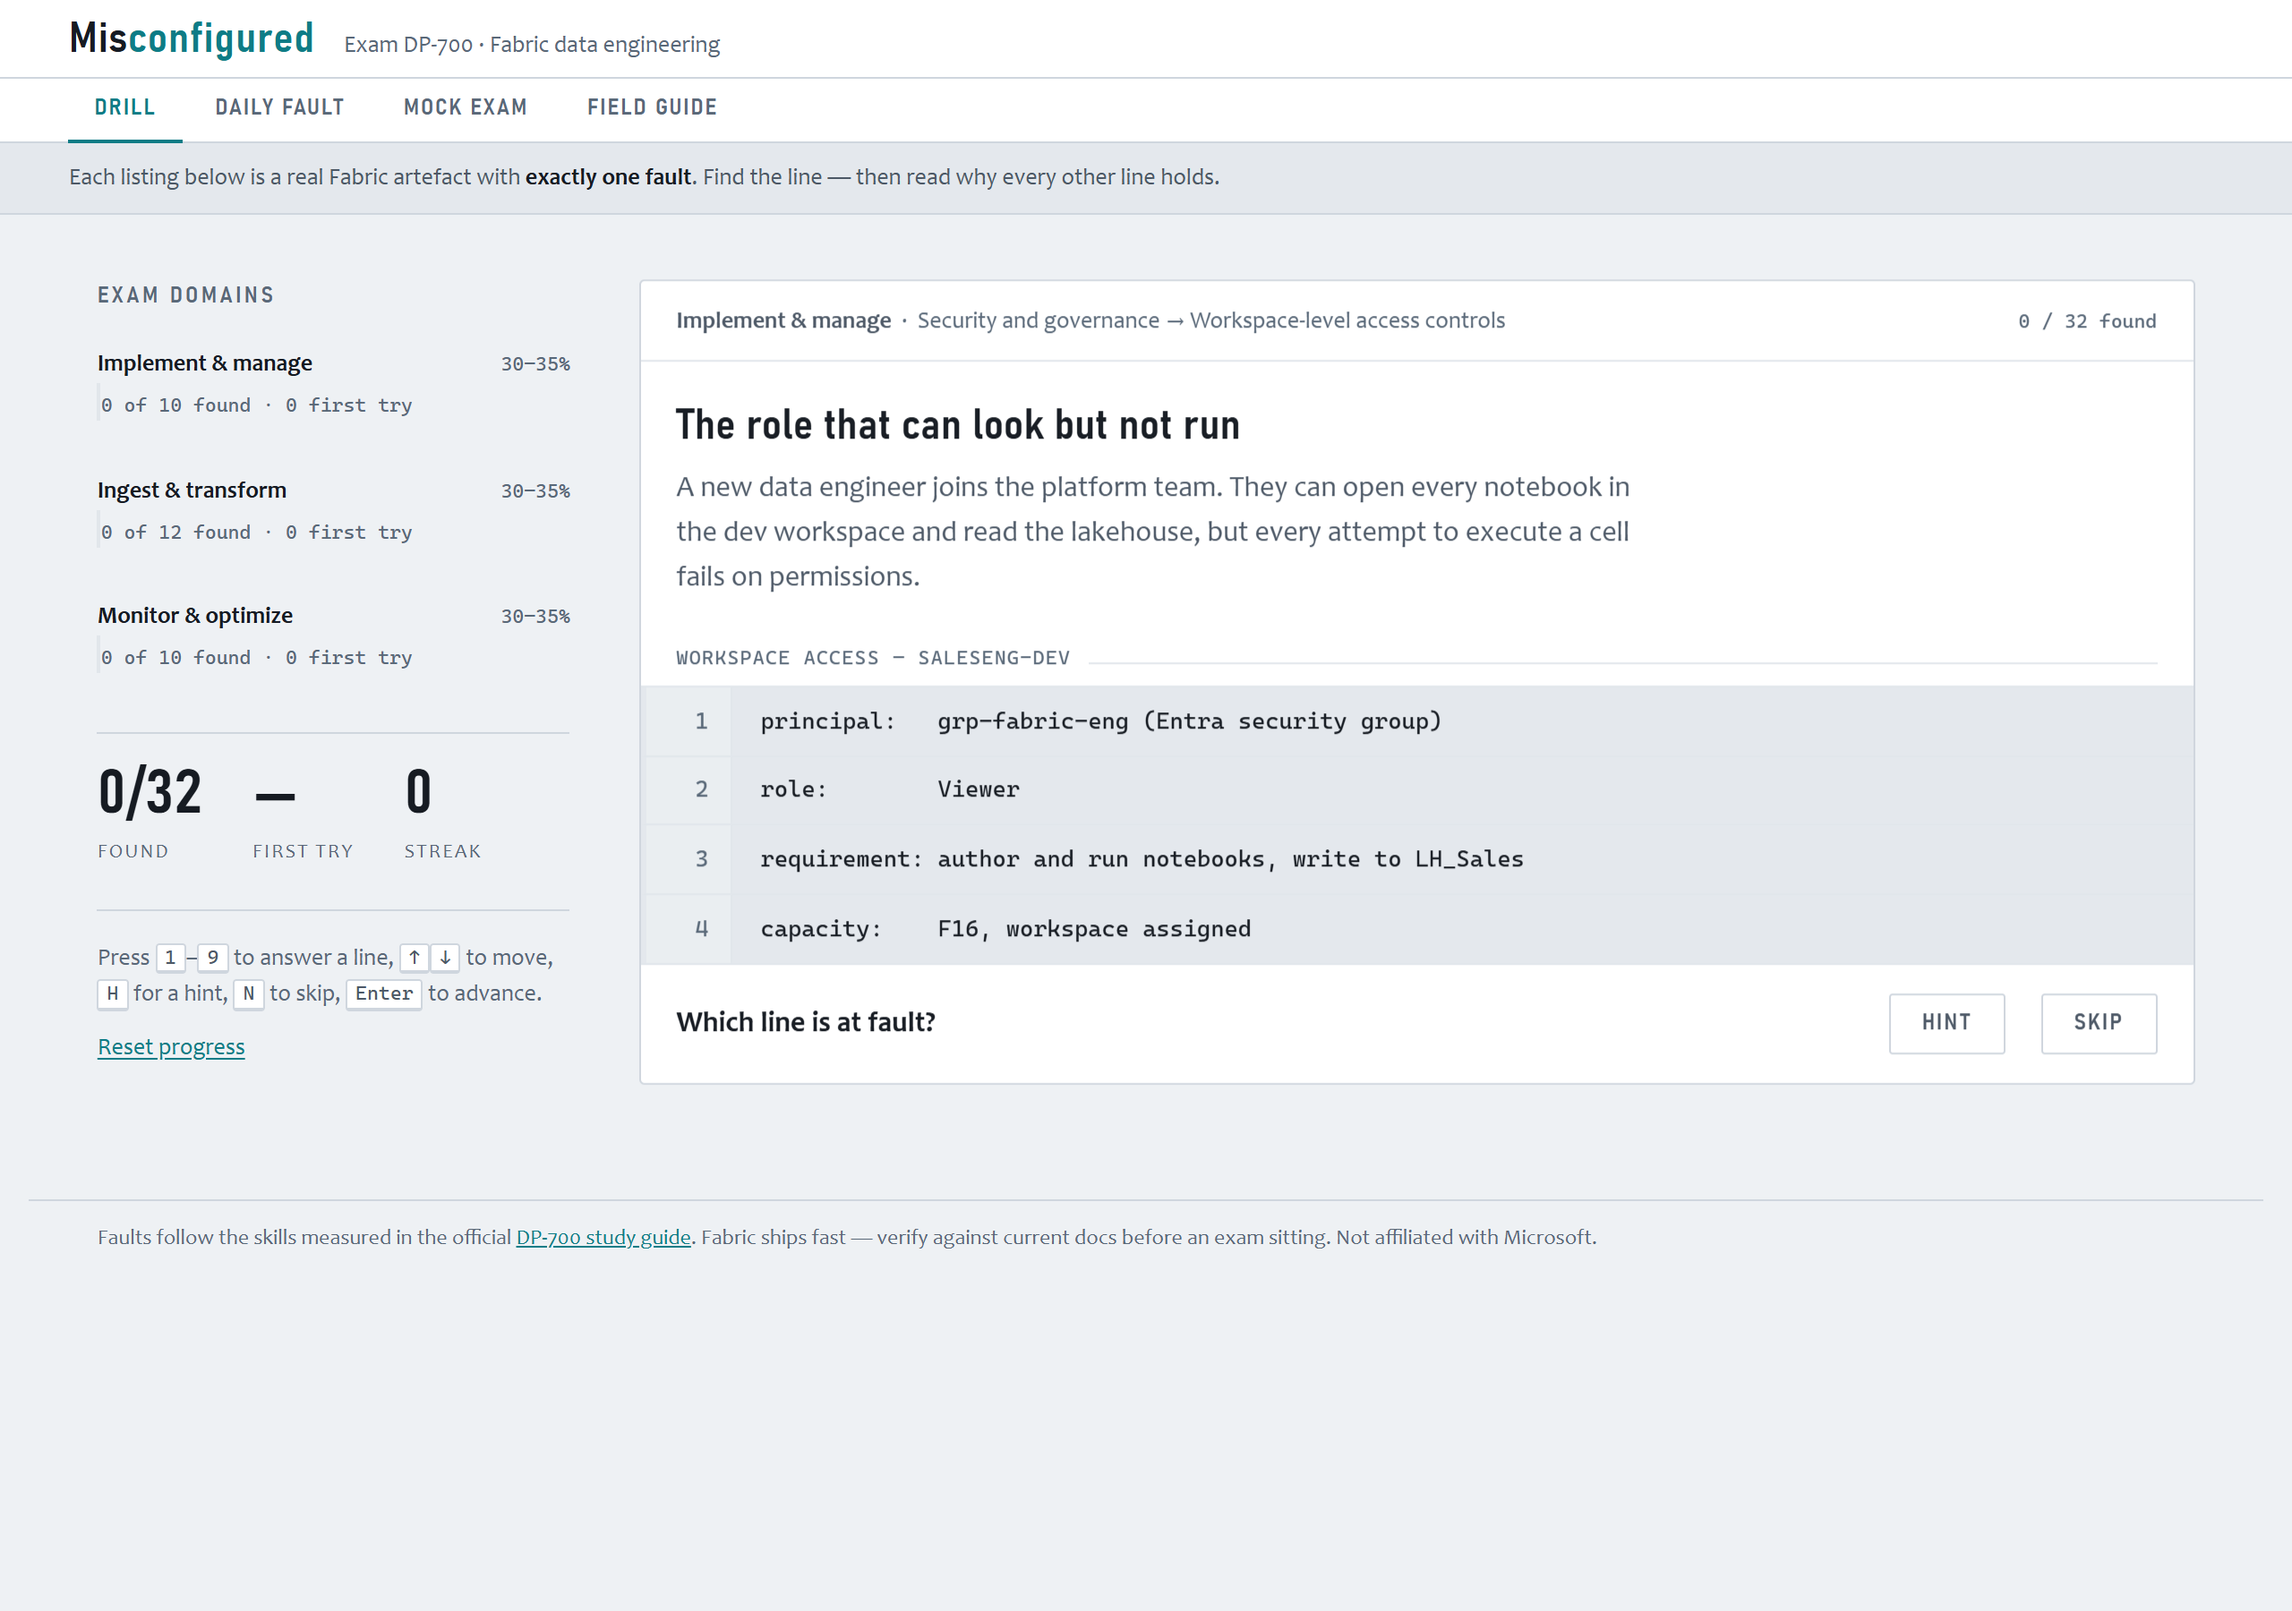
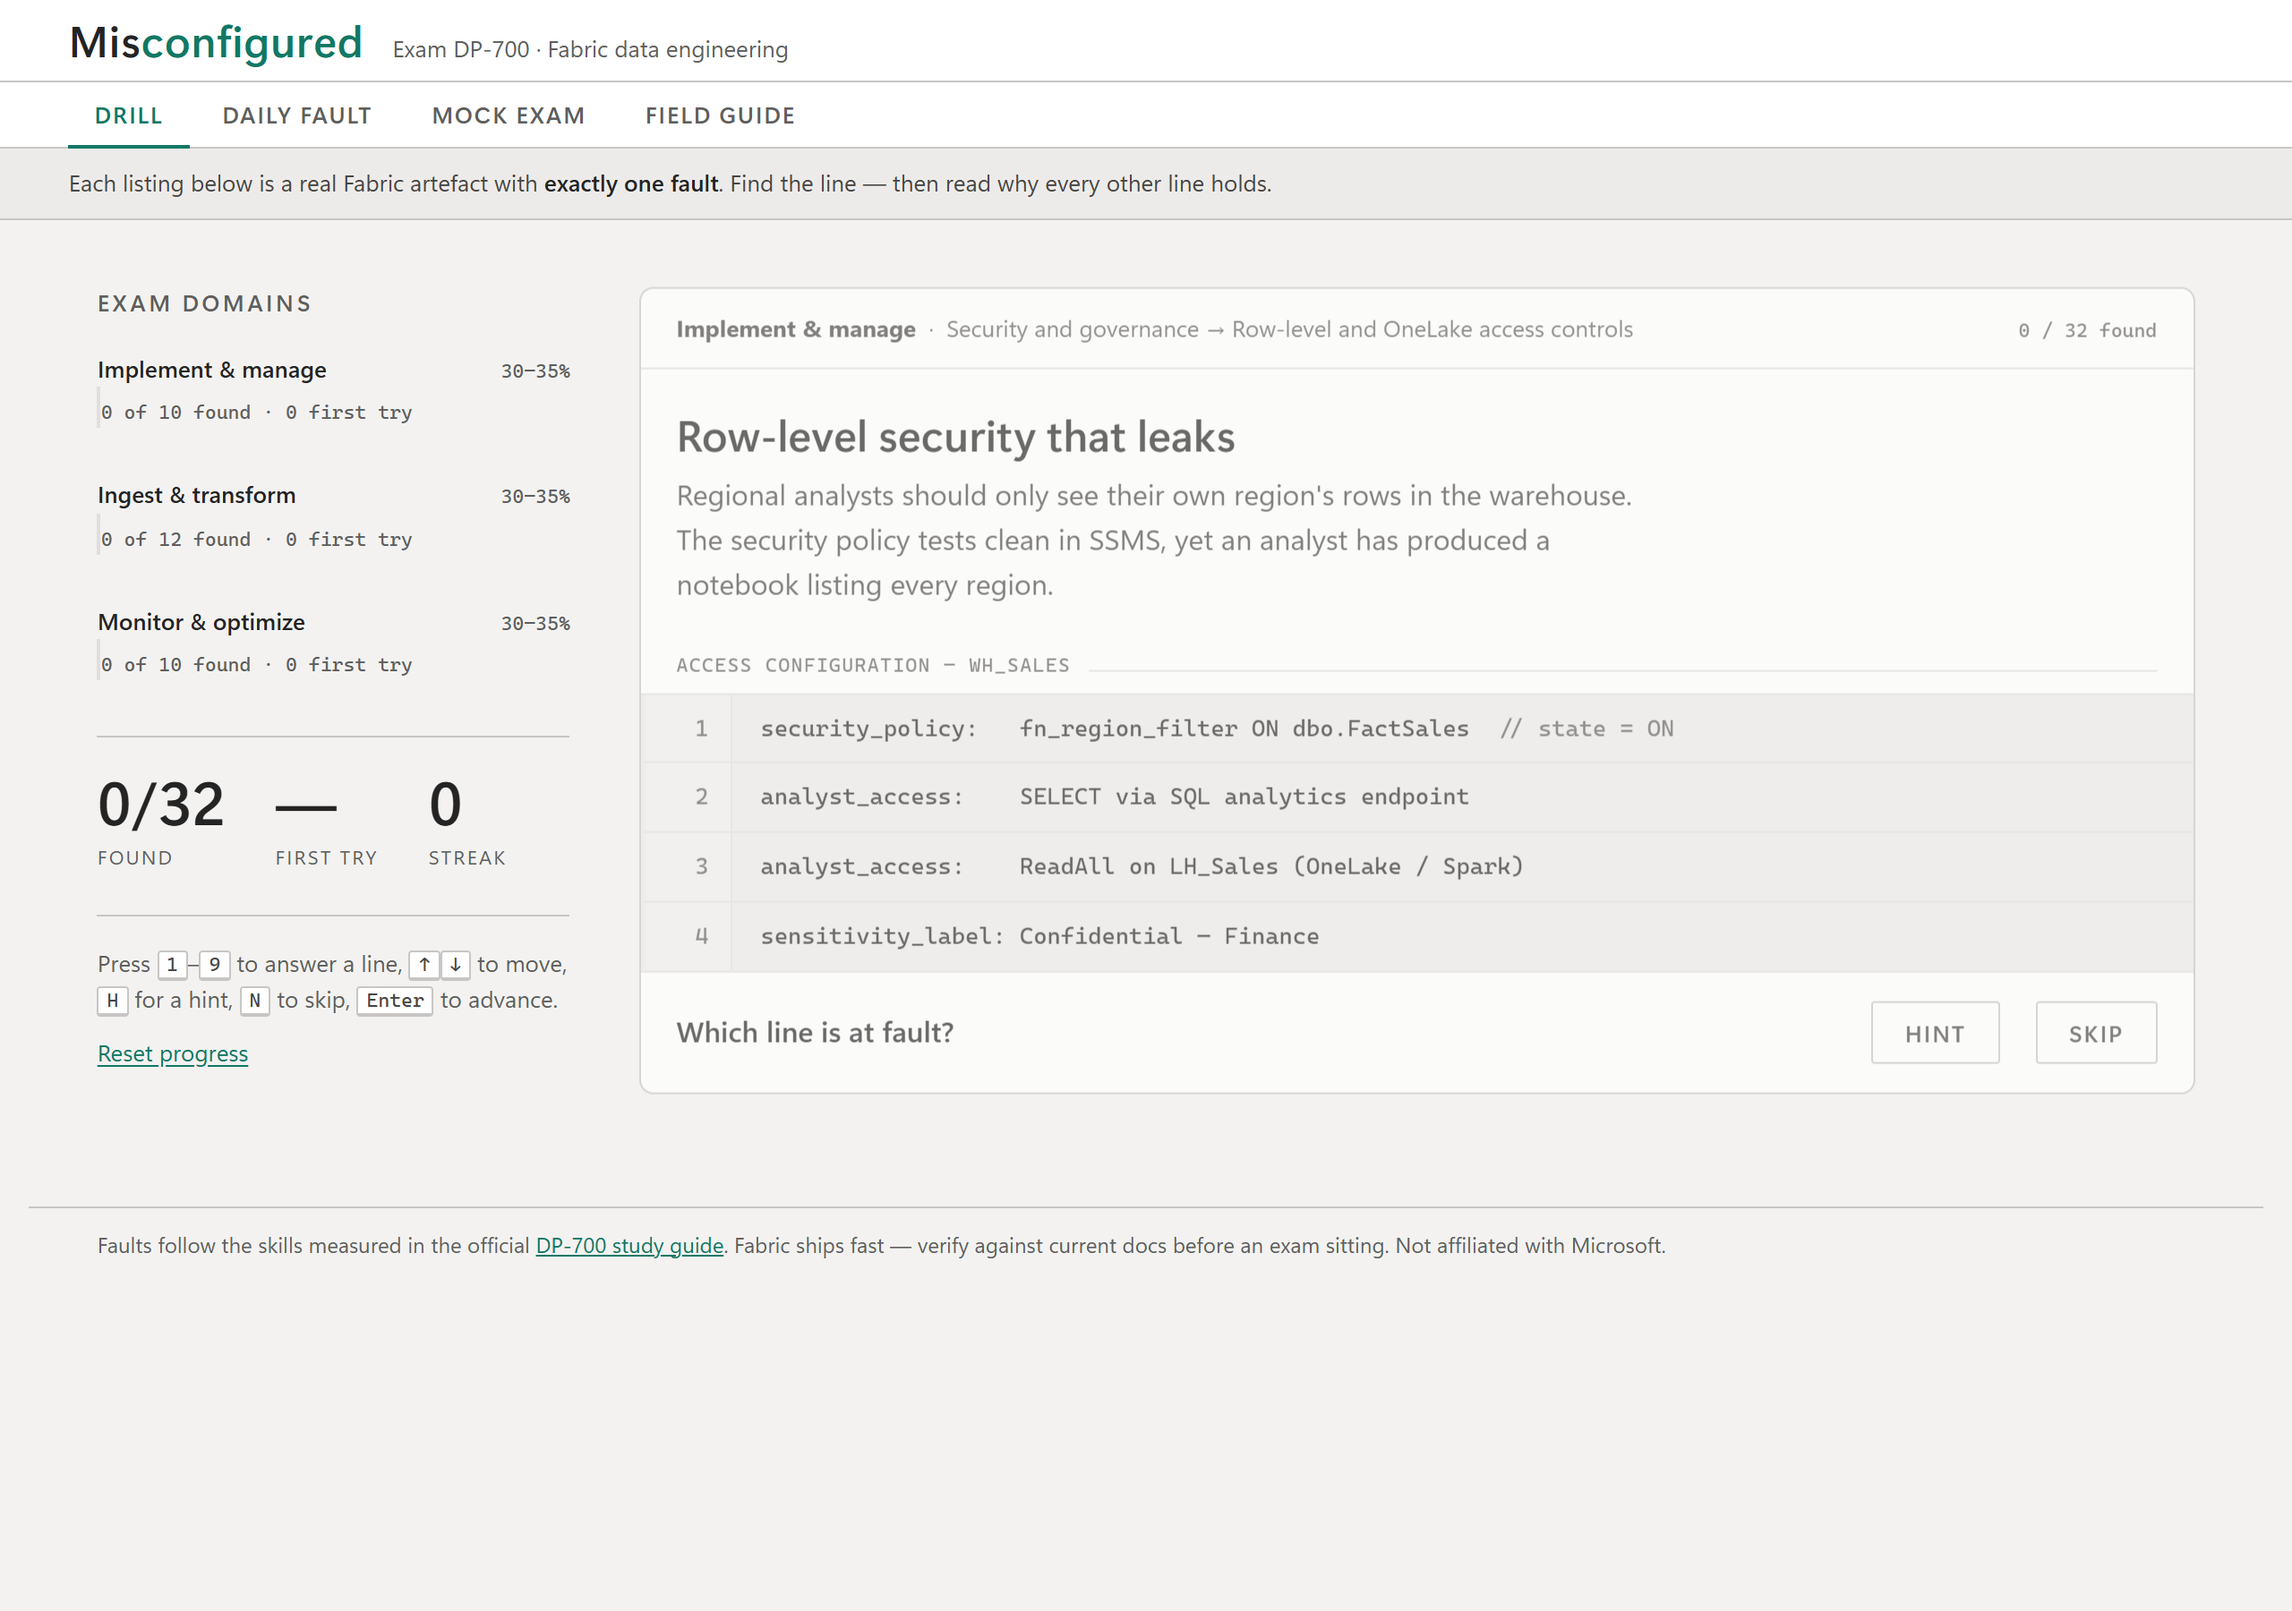
Retheme UI to Microsoft Fabric look
Fabric green accent (#117865) with Fluent 2 neutral palette in both
light and dark schemes, Segoe UI Variable type stack, Cascadia Code
for listings, and Fluent 8px card radius. README screenshots
regenerated to match.

diff --git a/index.html b/index.html
@@ -29,31 +29,30 @@
   :root {
     color-scheme: light;
 
-    --ground:      #EEF1F4;
+    --ground:      #F3F2F1;
     --surface:     #FFFFFF;
-    --surface-sunk:#E4E8ED;
-    --rule:        #CFD6DE;
-    --rule-soft:   #E1E6EB;
+    --surface-sunk:#EDEBE9;
+    --rule:        #C8C6C4;
+    --rule-soft:   #E1DFDD;
 
-    --ink:         #161B22;
-    --ink-mid:     #4C5866;
-    --ink-soft:    #596878;   /* 5.71:1 on surface, 4.64:1 on surface-sunk — AA for small text */
+    --ink:         #242424;
+    --ink-mid:     #484644;
+    --ink-soft:    #605E5C;   /* 5.94:1 on surface, 4.98:1 on surface-sunk — AA for small text */
 
-    --accent:      #0E7C86;
-    --accent-deep: #0A5C64;
-    --accent-wash: #DCEBEC;
+    --accent:      #117865;   /* Microsoft Fabric green */
+    --accent-deep: #0C5A4C;
+    --accent-wash: #DBF0E9;
 
-    --pass:        #3F8B57;
-    --pass-wash:   #DFEDE3;
-    --fault:       #BB3F35;
-    --fault-wash:  #F6E2DF;
-    --amber:       #A8741A;
-    --amber-wash:  #F5E9D3;
+    --pass:        #107C10;
+    --pass-wash:   #DFF6DD;
+    --fault:       #C50F1F;
+    --fault-wash:  #FDE7E9;
+    --amber:       #8F6200;
+    --amber-wash:  #FFF4CE;
 
-    --mono: "Cascadia Mono", Consolas, "SF Mono", "Menlo", "DejaVu Sans Mono", monospace;
-    --body: Candara, Optima, "Gill Sans Nova", "Gill Sans", "Segoe UI", system-ui, sans-serif;
-    --disp: "Bahnschrift SemiCondensed", "Bahnschrift", "Avenir Next Condensed",
-            "HelveticaNeue-CondensedBold", "Roboto Condensed", var(--body);
+    --mono: "Cascadia Code", "Cascadia Mono", Consolas, "SF Mono", "Menlo", "DejaVu Sans Mono", monospace;
+    --body: "Segoe UI Variable Text", "Segoe UI", system-ui, -apple-system, sans-serif;
+    --disp: "Segoe UI Variable Display", "Segoe UI Semibold", "Segoe UI", var(--body);
 
     --s-1:  0.8125rem;
     --s-0:  1rem;
@@ -62,49 +61,49 @@
     --s3:   2.125rem;
 
     --gut: clamp(1rem, 3vw, 2.5rem);
-    --card-radius: 3px;
+    --card-radius: 8px;
   }
 
   @media (prefers-color-scheme: dark) {
     :root {
       color-scheme: dark;
-      --ground:      #12171D;
-      --surface:     #1A2129;
-      --surface-sunk:#0E1318;
-      --rule:        #2E3A46;
-      --rule-soft:   #232D37;
-      --ink:         #E4E9EE;
-      --ink-mid:     #A3B0BD;
-      --ink-soft:    #7C8B99;
-      --accent:      #3FB4B8;
-      --accent-deep: #6FD3D5;
-      --accent-wash: #10333A;
-      --pass:        #62B87C;
+      --ground:      #1B1A19;
+      --surface:     #252423;
+      --surface-sunk:#141413;
+      --rule:        #3B3A39;
+      --rule-soft:   #2D2C2B;
+      --ink:         #F3F2F1;
+      --ink-mid:     #C8C6C4;
+      --ink-soft:    #979593;
+      --accent:      #4CC2A5;
+      --accent-deep: #7CD1B8;
+      --accent-wash: #0C3B2F;
+      --pass:        #6BB86A;
       --pass-wash:   #16301F;
-      --fault:       #E4695C;
-      --fault-wash:  #351815;
-      --amber:       #D99A2B;
-      --amber-wash:  #33260E;
+      --fault:       #F1707B;
+      --fault-wash:  #3F1418;
+      --amber:       #E0A339;
+      --amber-wash:  #3A2E0F;
     }
   }
 
   :root[data-theme="light"] {
     color-scheme: light;
-    --ground:#EEF1F4; --surface:#FFFFFF; --surface-sunk:#E4E8ED;
-    --rule:#CFD6DE; --rule-soft:#E1E6EB;
-    --ink:#161B22; --ink-mid:#4C5866; --ink-soft:#596878;
-    --accent:#0E7C86; --accent-deep:#0A5C64; --accent-wash:#DCEBEC;
-    --pass:#3F8B57; --pass-wash:#DFEDE3; --fault:#BB3F35; --fault-wash:#F6E2DF;
-    --amber:#A8741A; --amber-wash:#F5E9D3;
+    --ground:#F3F2F1; --surface:#FFFFFF; --surface-sunk:#EDEBE9;
+    --rule:#C8C6C4; --rule-soft:#E1DFDD;
+    --ink:#242424; --ink-mid:#484644; --ink-soft:#605E5C;
+    --accent:#117865; --accent-deep:#0C5A4C; --accent-wash:#DBF0E9;
+    --pass:#107C10; --pass-wash:#DFF6DD; --fault:#C50F1F; --fault-wash:#FDE7E9;
+    --amber:#8F6200; --amber-wash:#FFF4CE;
   }
   :root[data-theme="dark"] {
     color-scheme: dark;
-    --ground:#12171D; --surface:#1A2129; --surface-sunk:#0E1318;
-    --rule:#2E3A46; --rule-soft:#232D37;
-    --ink:#E4E9EE; --ink-mid:#A3B0BD; --ink-soft:#7C8B99;
-    --accent:#3FB4B8; --accent-deep:#6FD3D5; --accent-wash:#10333A;
-    --pass:#62B87C; --pass-wash:#16301F; --fault:#E4695C; --fault-wash:#351815;
-    --amber:#D99A2B; --amber-wash:#33260E;
+    --ground:#1B1A19; --surface:#252423; --surface-sunk:#141413;
+    --rule:#3B3A39; --rule-soft:#2D2C2B;
+    --ink:#F3F2F1; --ink-mid:#C8C6C4; --ink-soft:#979593;
+    --accent:#4CC2A5; --accent-deep:#7CD1B8; --accent-wash:#0C3B2F;
+    --pass:#6BB86A; --pass-wash:#16301F; --fault:#F1707B; --fault-wash:#3F1418;
+    --amber:#E0A339; --amber-wash:#3A2E0F;
   }
 
   /* ─── frame ─────────────────────────────────────────────────── */
